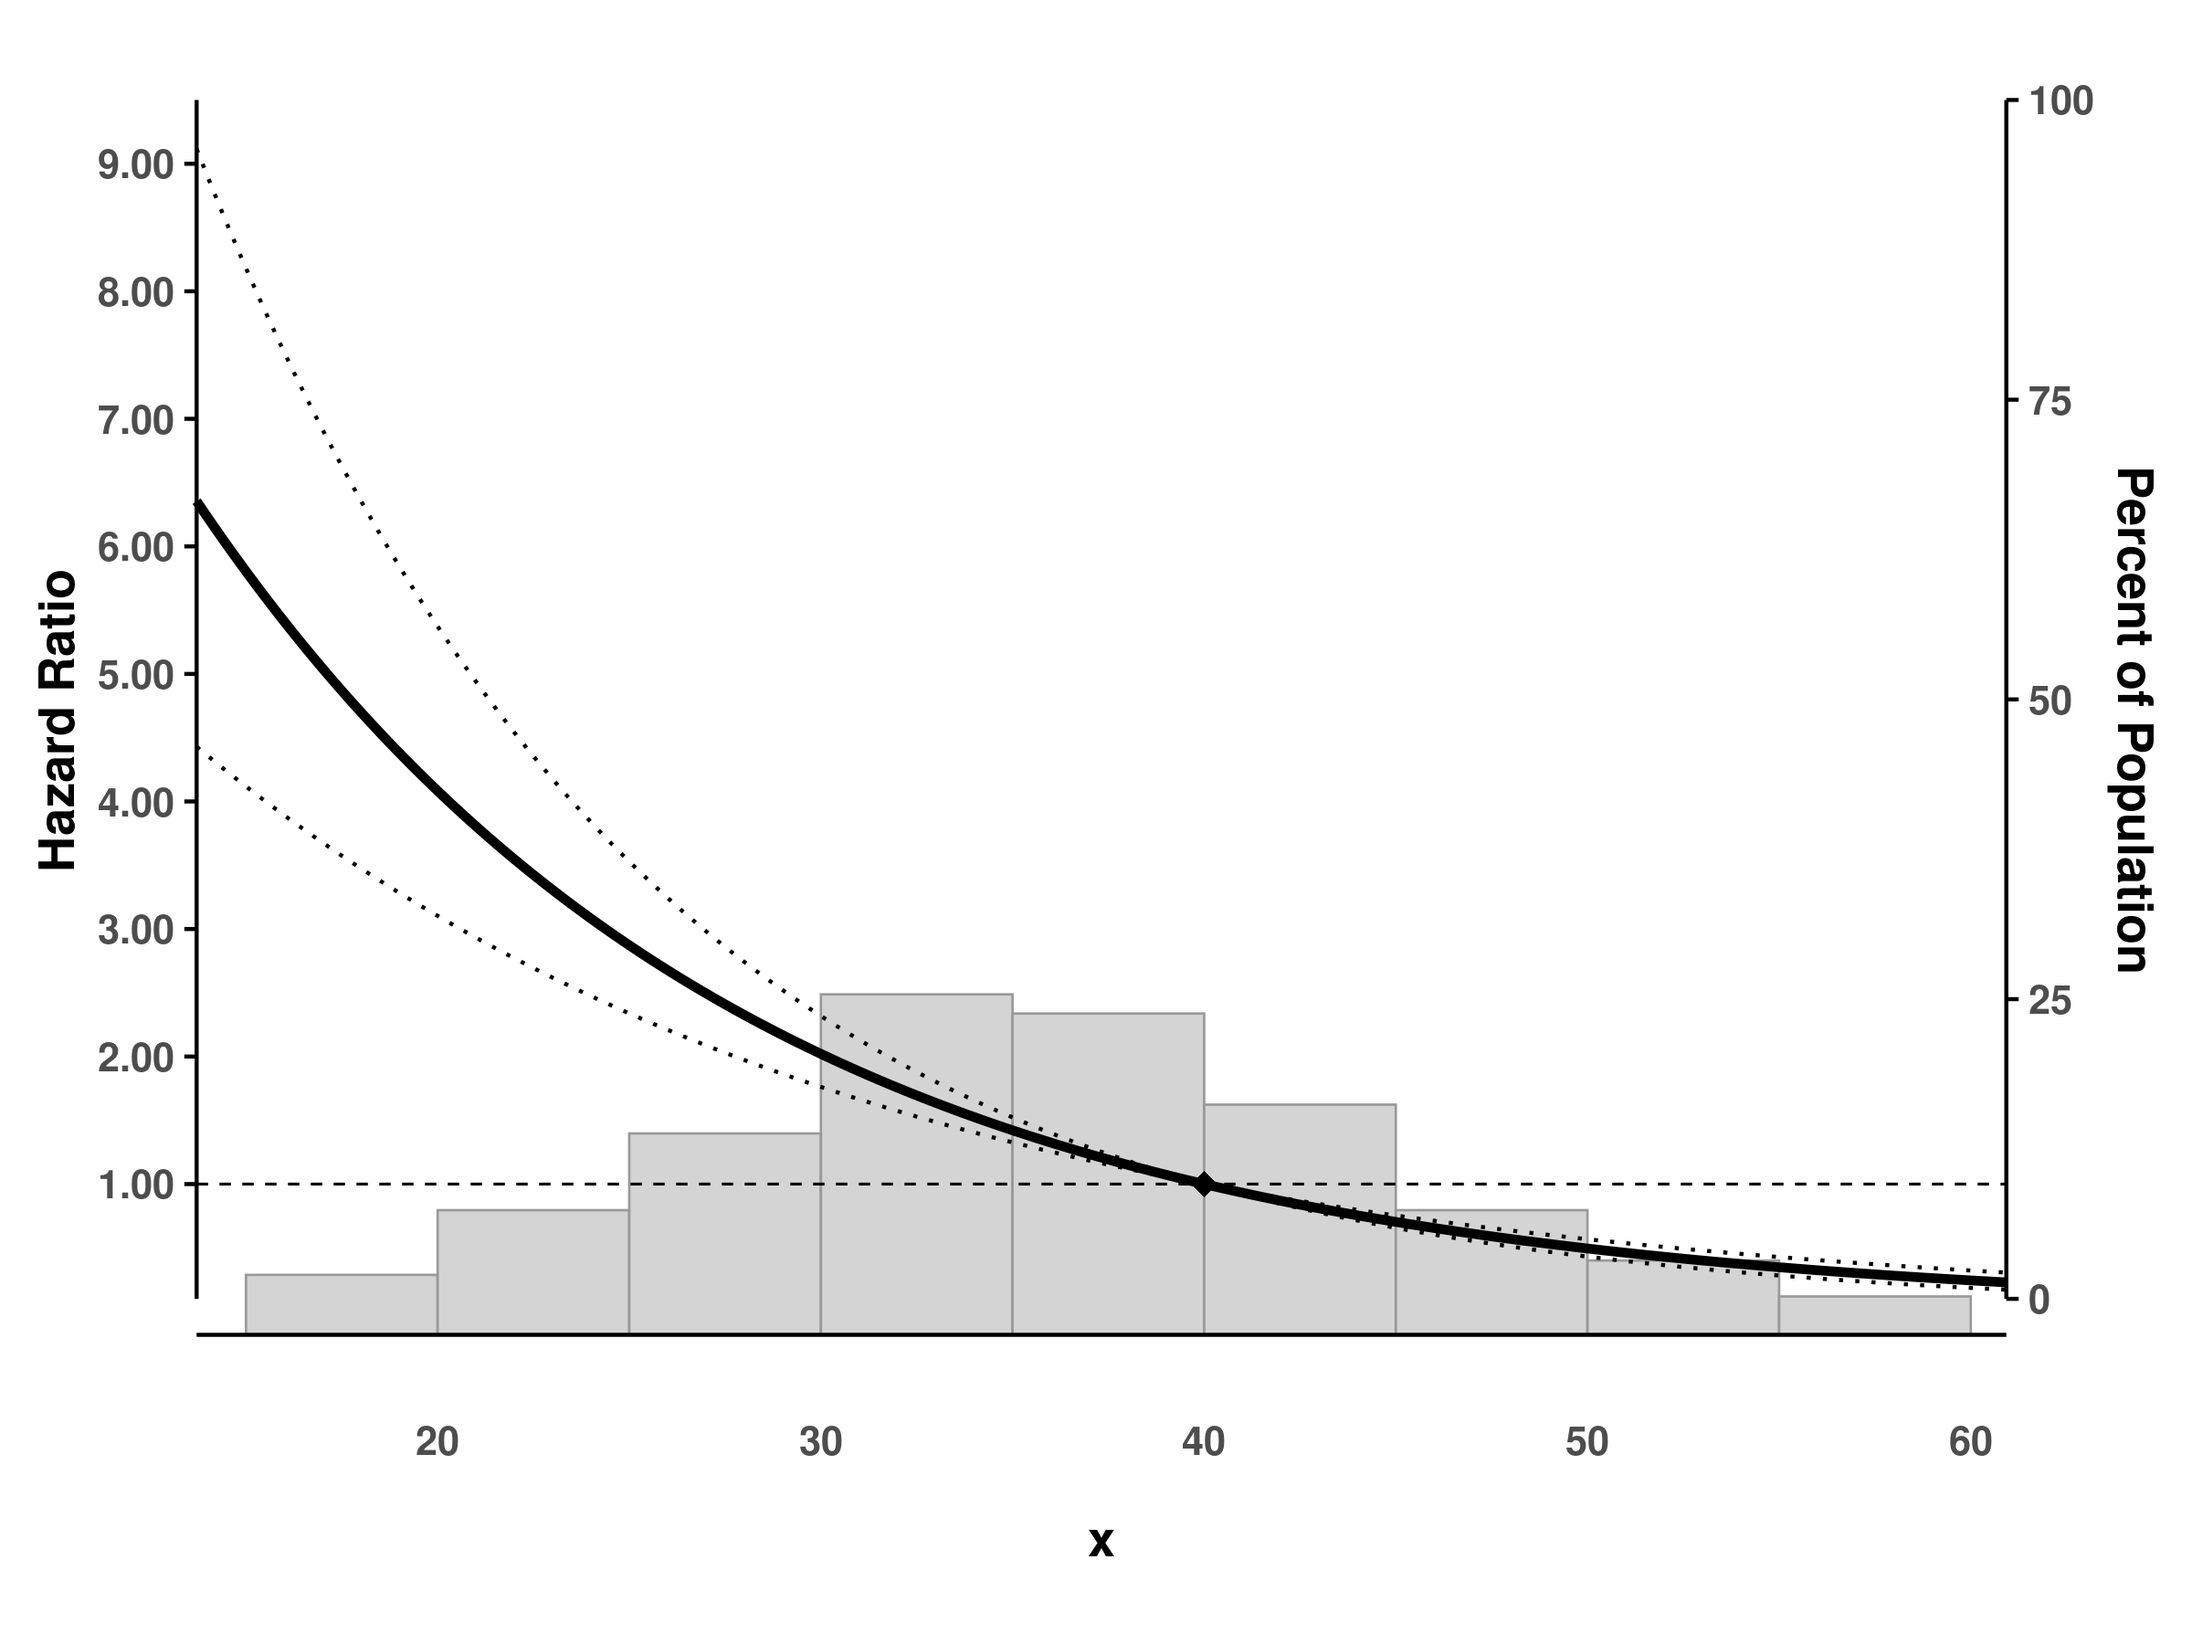
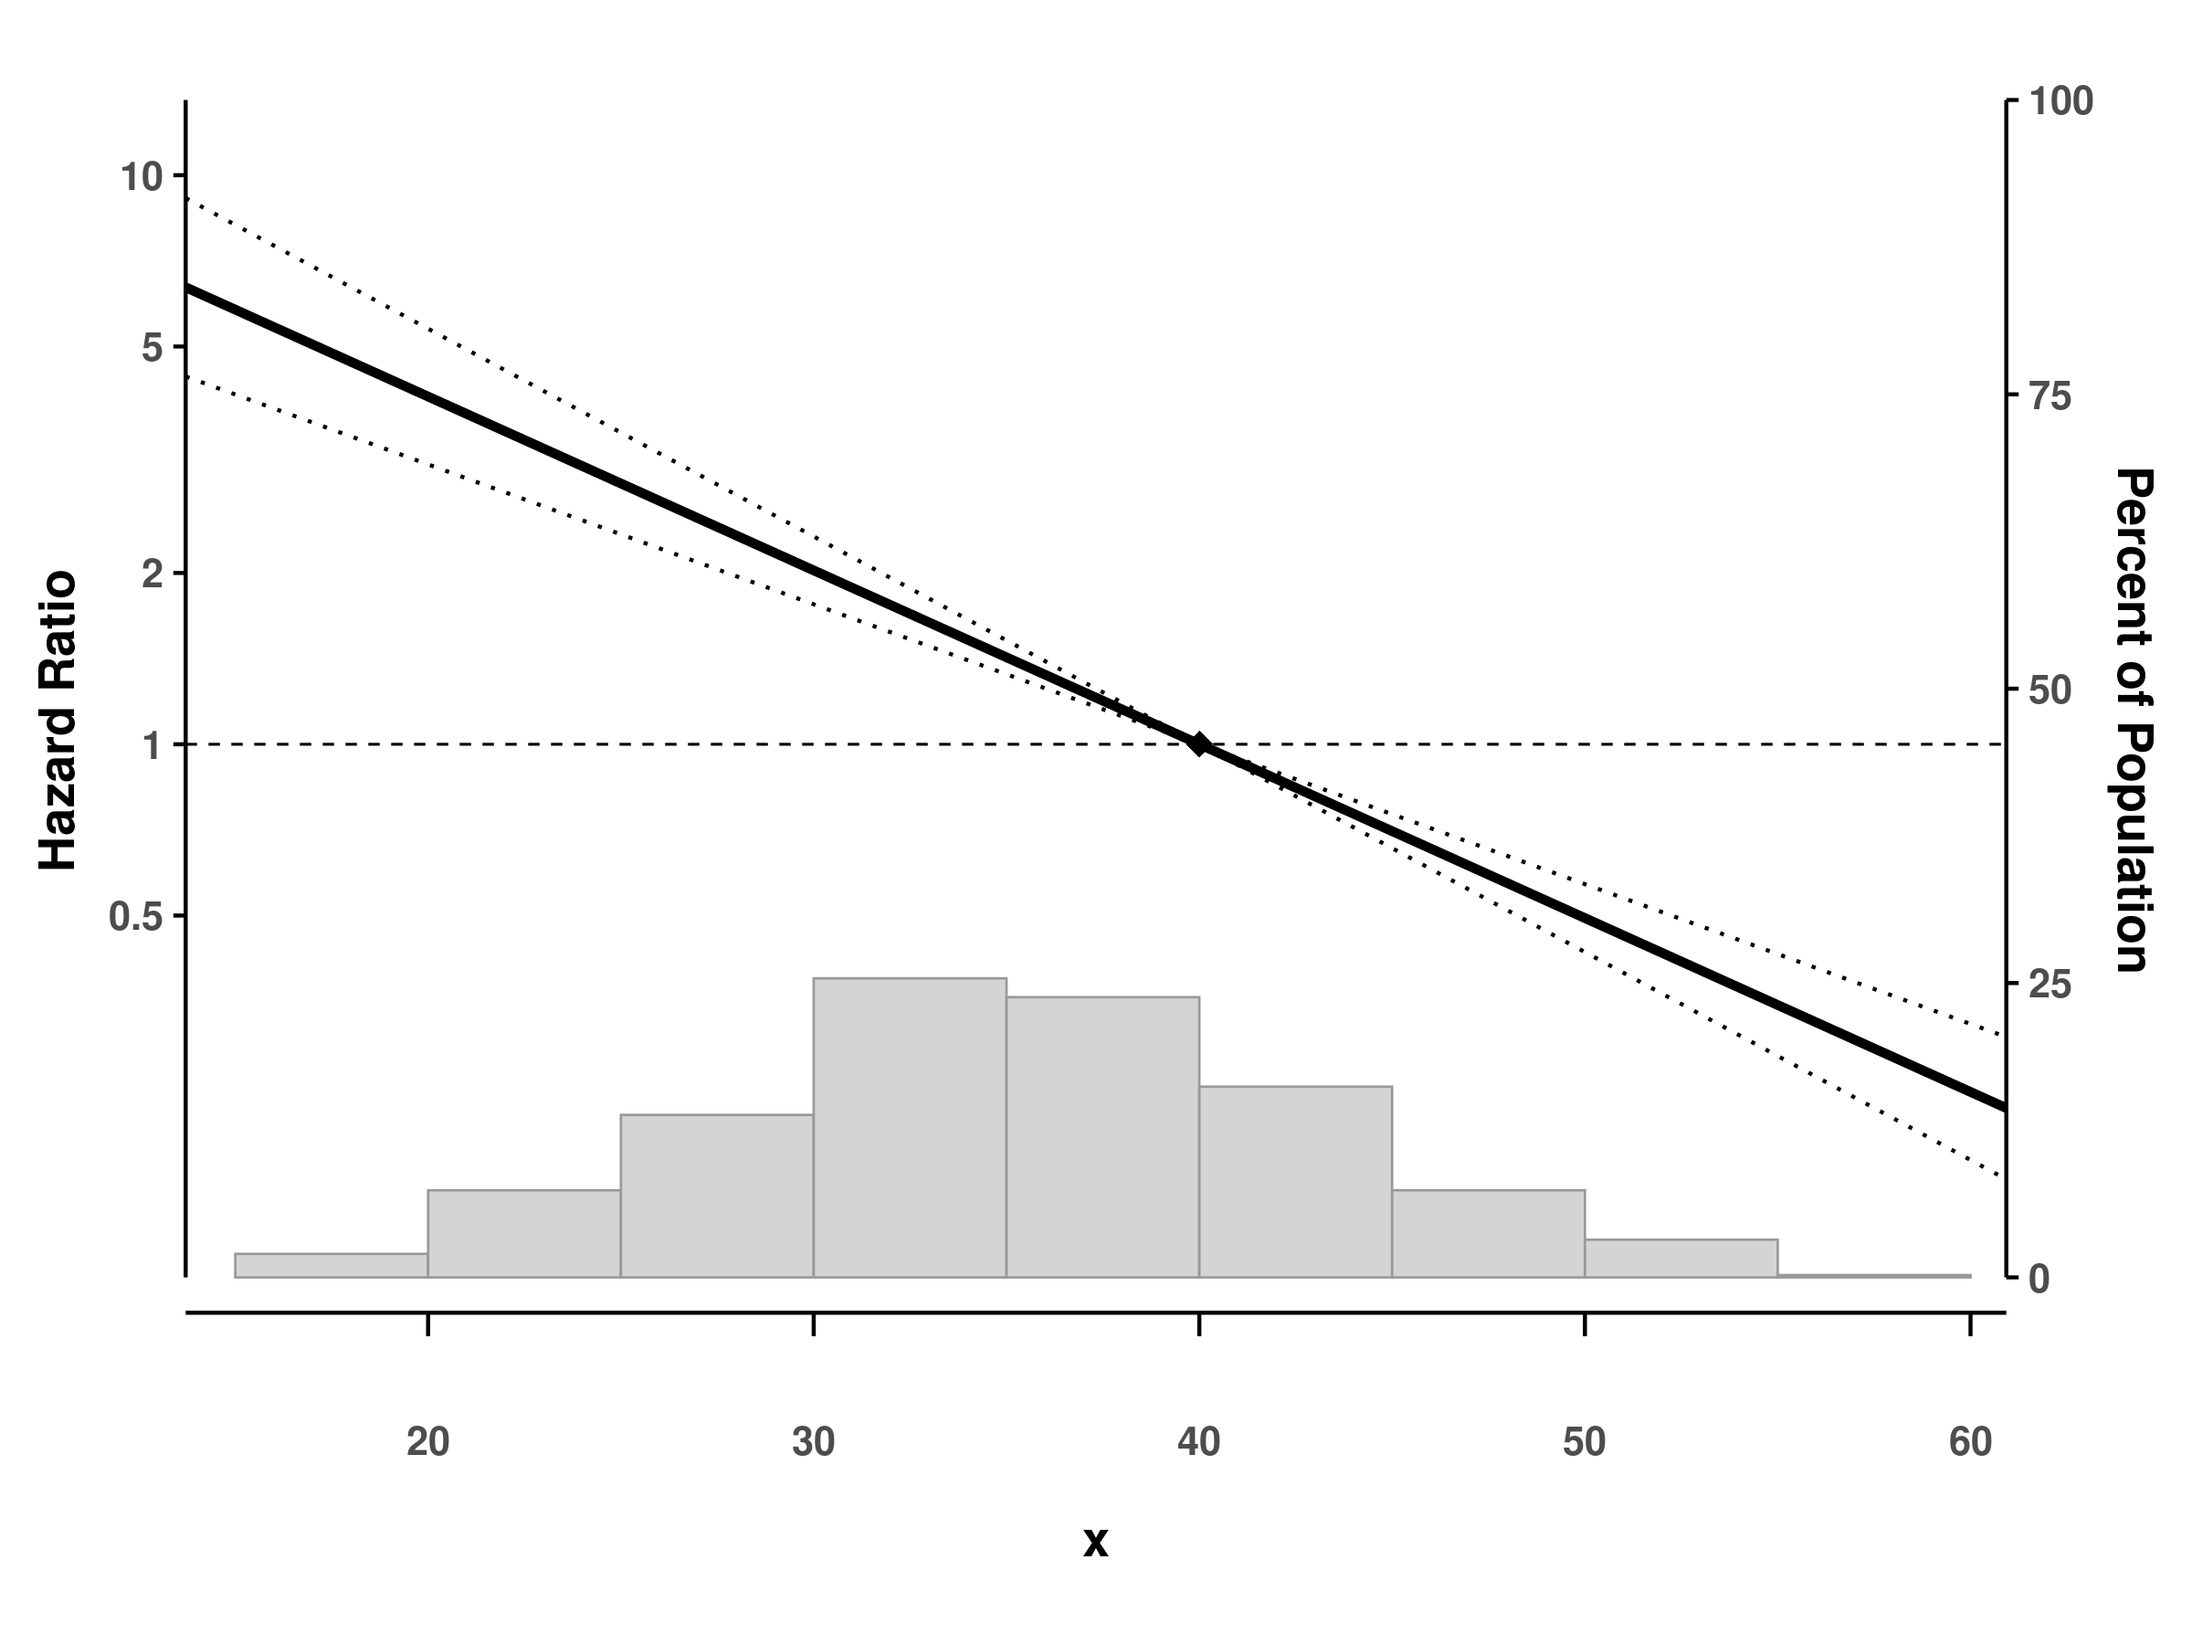
Release v0.2.0
- Implement proper ratio scale display for HR/OR/RR when log_scale=FALSE
- Fix X-axis tick visibility and direction
- Fix histogram alignment with secondary Y-axis 0%
- Simplify internal data handling using log scale
- Fix missing Y-axis labels in GAM interaction plots
- Update documentation and vignettes

diff --git a/README.md b/README.md
@@ -15,7 +15,7 @@ issues](https://img.shields.io/github/issues/jinseob2kim/splineplot.svg)](https:
 [![GitHub
 stars](https://img.shields.io/github/stars/jinseob2kim/splineplot.svg)](https://github.com/jinseob2kim/splineplot/stargazers)
 [![GitHub
-license](https://img.shields.io/github/license/jinseob2kim/splineplot.svg)](https://github.com/jinseob2kim/splineplot)
+license](https://img.shields.io/github/license/jinseob2kim/splineplot.svg)](https://github.com/jinseob2kim/splineplot/blob/main/LICENSE)
 [![Lifecycle:
 experimental](https://img.shields.io/badge/lifecycle-experimental-orange.svg)](https://lifecycle.r-lib.org/articles/stages.html#experimental)
 <!-- badges: end -->
@@ -92,11 +92,11 @@ splineplot(fit_gam_cox, dat,
 #> Using refx = 35.17 (median of x)
 #> Warning: Removed 2 rows containing missing values or values outside the scale range
 #> (`geom_rect()`).
-#> Warning: Removed 39 rows containing missing values or values outside the scale range
+#> Warning: Removed 61 rows containing missing values or values outside the scale range
 #> (`geom_line()`).
 #> Warning: Removed 56 rows containing missing values or values outside the scale range
 #> (`geom_line()`).
-#> Warning: Removed 49 rows containing missing values or values outside the scale range
+#> Warning: Removed 54 rows containing missing values or values outside the scale range
 #> (`geom_line()`).
 ```
 
@@ -117,7 +117,7 @@ splineplot(fit_glm, dat,
 #> Using refx = 35.17 (median of x)
 #> Warning: Removed 2 rows containing missing values or values outside the scale range
 #> (`geom_rect()`).
-#> Warning: Removed 22 rows containing missing values or values outside the scale range
+#> Warning: Removed 34 rows containing missing values or values outside the scale range
 #> (`geom_line()`).
 #> Warning: Removed 85 rows containing missing values or values outside the scale range
 #> (`geom_line()`).
@@ -149,11 +149,11 @@ splineplot(fit_interaction, dat,
 #> data's fill values.
 #> Warning: Removed 2 rows containing missing values or values outside the scale range
 #> (`geom_rect()`).
-#> Warning: Removed 136 rows containing missing values or values outside the scale range
+#> Warning: Removed 124 rows containing missing values or values outside the scale range
 #> (`geom_line()`).
 #> Warning: Removed 116 rows containing missing values or values outside the scale range
 #> (`geom_line()`).
-#> Warning: Removed 126 rows containing missing values or values outside the scale range
+#> Warning: Removed 110 rows containing missing values or values outside the scale range
 #> (`geom_line()`).
 ```
 
@@ -180,16 +180,6 @@ splineplot(fit_glm, dat, log_scale = TRUE)
 #> Using refx = 35.17 (median of x)
 #> Warning: Removed 2 rows containing missing values or values outside the scale range
 #> (`geom_rect()`).
-#> Warning: Removed 1 row containing missing values or values outside the scale range
-#> (`geom_segment()`).
-#> Removed 1 row containing missing values or values outside the scale range
-#> (`geom_segment()`).
-#> Removed 1 row containing missing values or values outside the scale range
-#> (`geom_segment()`).
-#> Removed 1 row containing missing values or values outside the scale range
-#> (`geom_segment()`).
-#> Removed 1 row containing missing values or values outside the scale range
-#> (`geom_segment()`).
 ```
 
 <img src="man/figures/README-log-scale-1.png" width="100%" />
@@ -204,16 +194,6 @@ splineplot(fit_gam_cox, dat,
 #> Using 'x' as x variable
 #> Warning: Removed 2 rows containing missing values or values outside the scale range
 #> (`geom_rect()`).
-#> Warning: Removed 1 row containing missing values or values outside the scale range
-#> (`geom_segment()`).
-#> Removed 1 row containing missing values or values outside the scale range
-#> (`geom_segment()`).
-#> Removed 1 row containing missing values or values outside the scale range
-#> (`geom_segment()`).
-#> Removed 1 row containing missing values or values outside the scale range
-#> (`geom_segment()`).
-#> Removed 1 row containing missing values or values outside the scale range
-#> (`geom_segment()`).
 ```
 
 <img src="man/figures/README-custom-ref-1.png" width="100%" />
@@ -272,7 +252,8 @@ like to change.
 
 ## License
 
-Apache License 2.0 © Jinseob Kim / Zarathu.
+Apache License 2.0 © Jinseob Kim / Zarathu - see the LICENSE file for
+details.
 
 ## Acknowledgments
 

diff --git a/NEWS.md b/NEWS.md
@@ -1,3 +1,23 @@
+# splineplot 0.2.0
+
+## Major Improvements
+* **Y-axis scaling**: Implemented proper ratio scale display for HR/OR/RR when `log_scale=FALSE`
+  - Shows actual ratio values (e.g., 0.5, 1, 2) instead of log values
+  - Automatically selects appropriate breaks based on data range
+  - Removes trailing zeros from labels (1.50 → 1.5)
+* **X-axis improvements**:
+  - Fixed X-axis tick visibility and direction (now properly pointing downward)
+  - Adjusted plot limits to ensure ticks are always visible
+* **Histogram alignment**: Base of histogram now correctly aligns with secondary Y-axis 0%
+* **Internal refactoring**: Simplified data handling by always using log scale internally for ratio metrics
+  - `log_scale` parameter now only affects Y-axis label display
+  - More consistent and predictable behavior
+
+## Bug Fixes
+* Fixed missing Y-axis labels in GAM interaction plots
+* Corrected reference line position (always at y=0 for log scale, which represents ratio=1)
+* Fixed ylabel column missing in `extract_spline_interaction()` output
+
 # splineplot 0.1.1
 
 ## Bug Fixes
